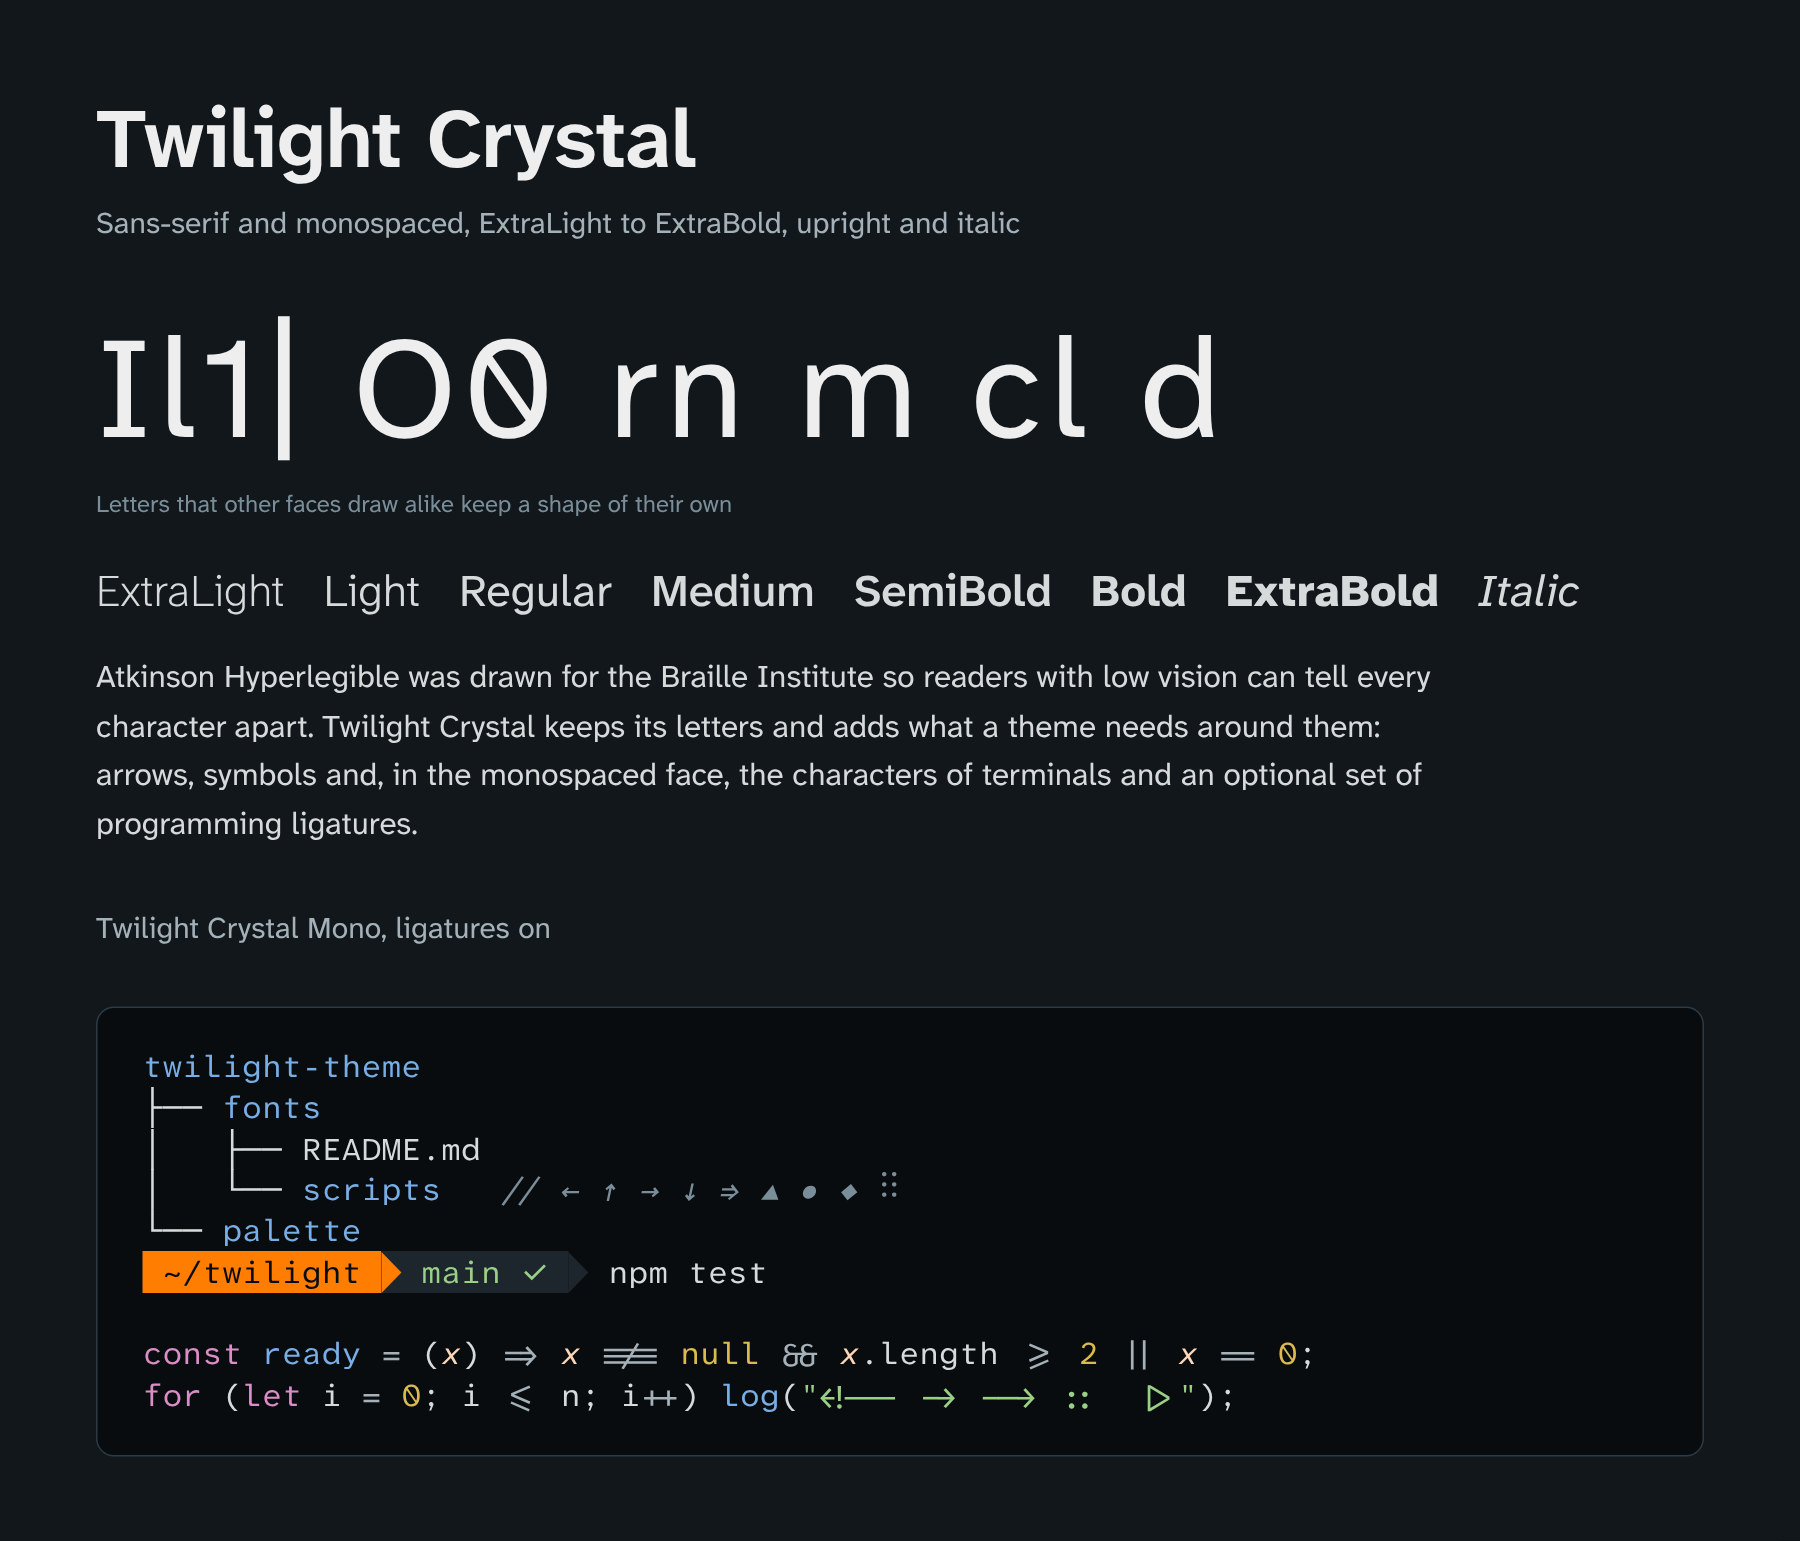
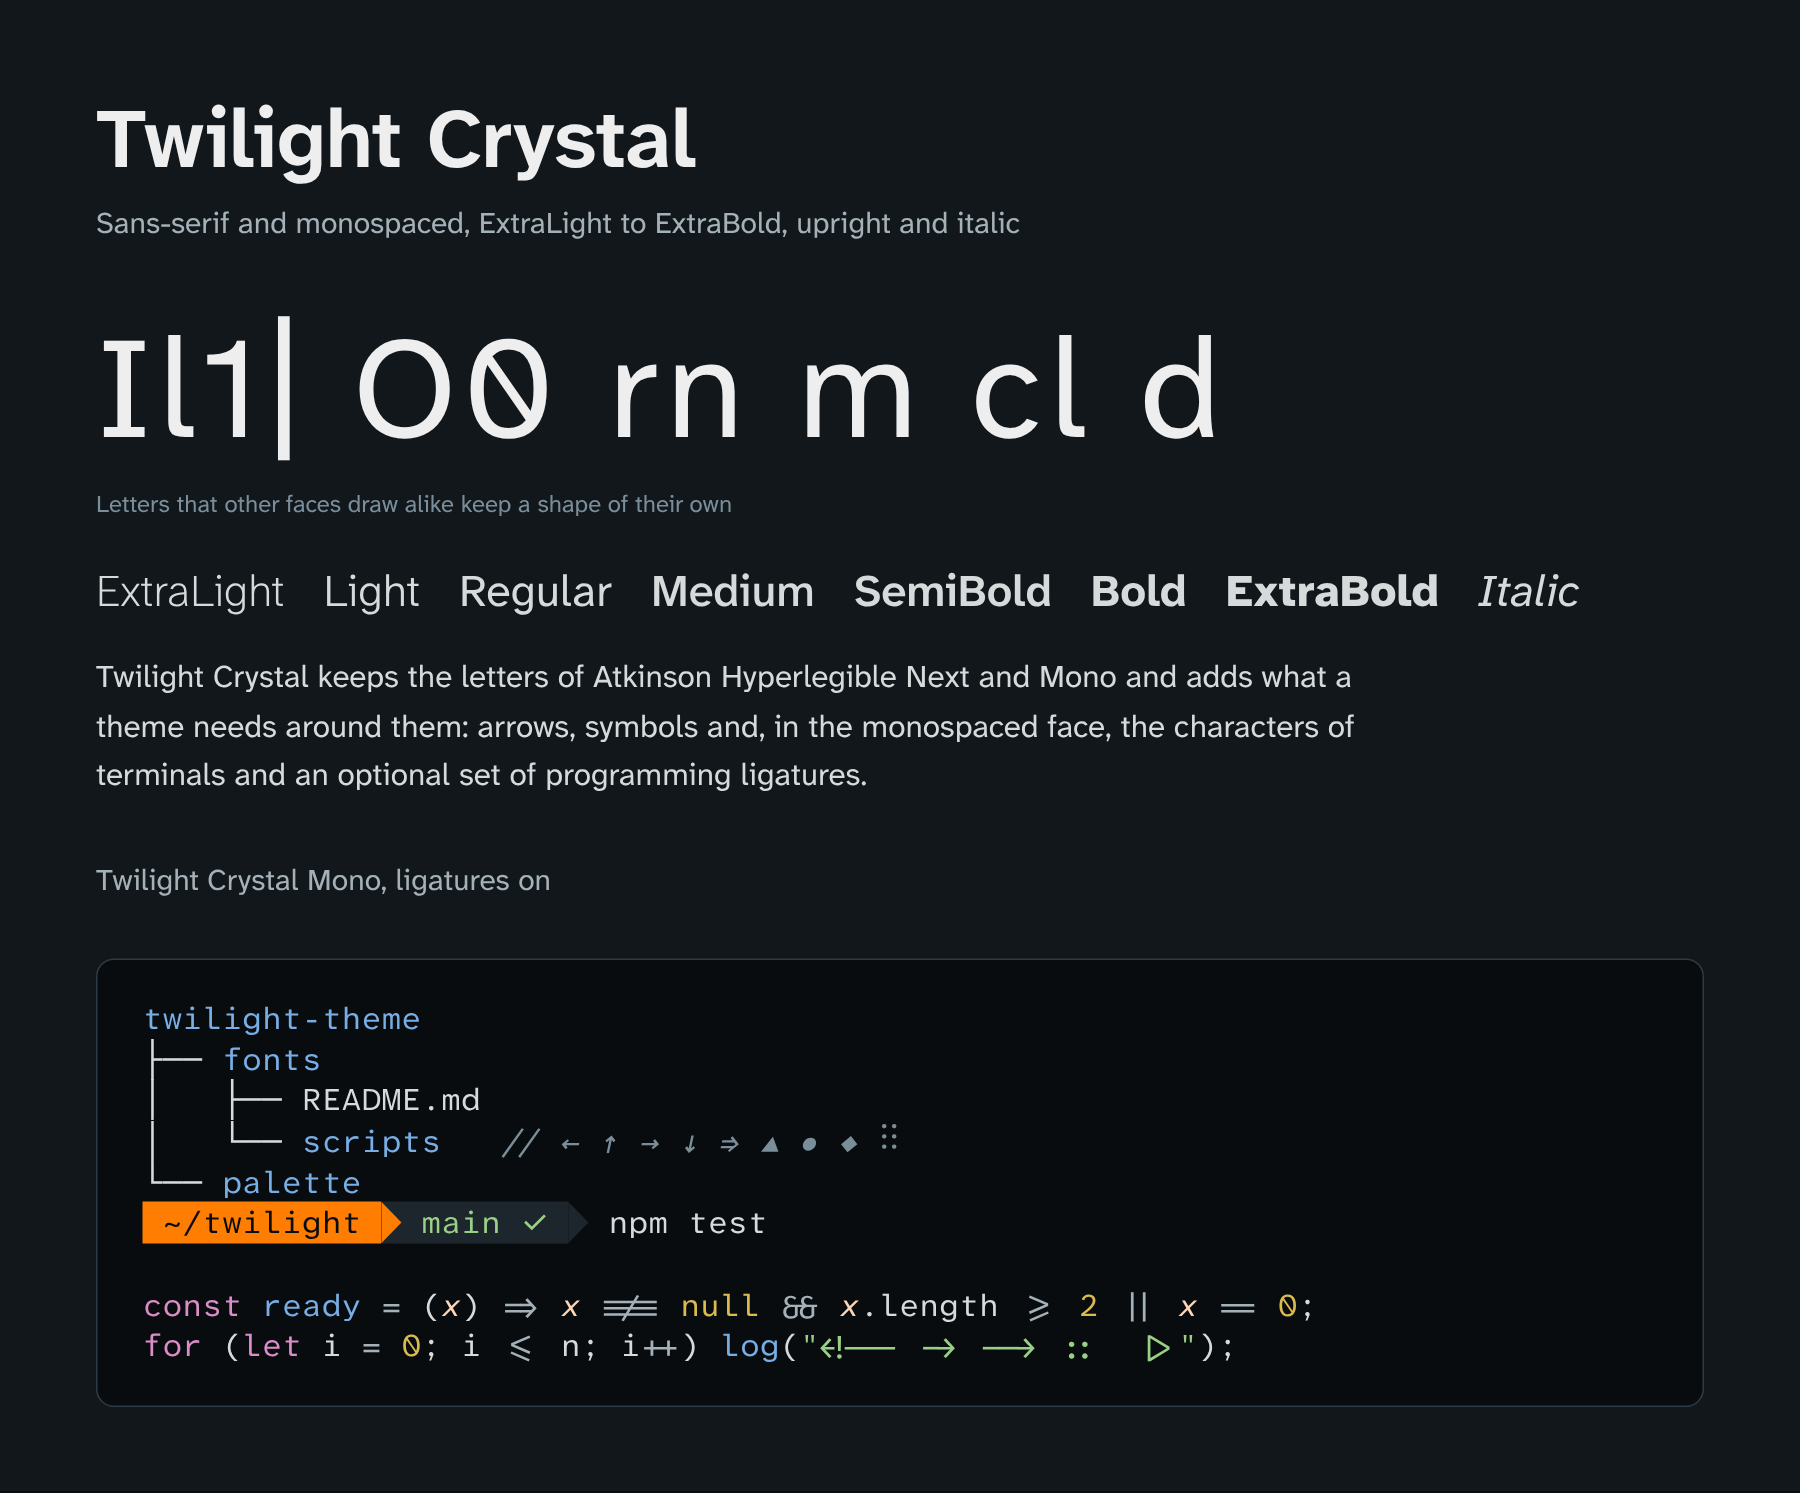
Name Atkinson Hyperlegible's authors only to credit them
OFL condition 4 bars the names of the authors and copyright holders from
promoting a Modified Version, except to acknowledge their contribution.
The page of Twilight Crystal, its specimen and the typography guide used
the Braille Institute and the original's purpose for readers with low
vision as selling points. They now describe Twilight Crystal's letters as
they are, and say whose work those letters are: Elliott Scott, Megan
Eiswerth, Linus Boman, Theodore Petrosky and Letters from Sweden, as
Atkinson Hyperlegible's AUTHORS.txt lists them. Credits in the license
table, the README's license section and FONTLOG are unchanged.

Claude-Session: https://claude.ai/code/session_01WSzJJ2zg4opgNoSeagqYLS

diff --git a/fonts/README.md b/fonts/README.md
@@ -11,11 +11,11 @@
   <a href="FONTLOG.txt">Changes and credits</a>
 </p>
 
-Twilight Crystal and Twilight Crystal Mono are the typefaces of [Twilight Theme](../README.md): a sans-serif for interfaces, documents, images and the web, and a monospaced face for code editors and terminals. They are derivatives of [Atkinson Hyperlegible Next](https://fonts.google.com/specimen/Atkinson+Hyperlegible+Next) and [Atkinson Hyperlegible Mono](https://fonts.google.com/specimen/Atkinson+Hyperlegible+Mono), designed by Applied Design Works and Letters from Sweden for the Braille Institute, and they keep those letters unchanged.
+Twilight Crystal and Twilight Crystal Mono are the typefaces of [Twilight Theme](../README.md): a sans-serif for interfaces, documents, images and the web, and a monospaced face for code editors and terminals. They are derivatives of [Atkinson Hyperlegible Next](https://fonts.google.com/specimen/Atkinson+Hyperlegible+Next) and [Atkinson Hyperlegible Mono](https://fonts.google.com/specimen/Atkinson+Hyperlegible+Mono) and keep their letters unchanged; the [credits](#license) name their authors.
 
 ## Legibility
 
-Atkinson Hyperlegible was drawn so that readers with low vision can tell characters apart. Pairs that other faces draw alike get shapes of their own: I has serifs and l a tail, 1 has a flag, 0 has a slash, and rn stays apart from m. Legibility is why Twilight Theme chose it.
+In Twilight Crystal, characters that other faces draw alike have shapes of their own: I has serifs and l a tail, 1 has a flag, 0 has a slash, and rn stays apart from m. These letters are the work of Atkinson Hyperlegible's designers, Elliott Scott, Megan Eiswerth, Linus Boman, Theodore Petrosky and Letters from Sweden, and their legibility is why Twilight Theme chose that design.
 
 Twilight Crystal keeps that design: every letter, number and punctuation mark keeps the outline, spacing and kerning of the original, and every build checks this against the originals: same glyphs within 0.5 font units, same shaping. The static fonts are hinted as the originals are, and a check confirms on every build that alignment and sharpness from 9 to 20 pixels, and the distinction of those pairs from 9 to 14 pixels, are no worse than the originals'.
 

diff --git a/docs/typography.md b/docs/typography.md
@@ -25,7 +25,7 @@ Twilight Theme recommends its own typefaces, Twilight Crystal and Twilight Cryst
 | Adds | 60 characters | 481 characters, cell hinting, optional ligatures |
 | License | SIL Open Font License 1.1 | The same |
 
-Atkinson Hyperlegible was designed for the Braille Institute so that readers with low vision can tell characters apart: I, l and 1, or O and 0, each have a shape of their own. Twilight Crystal keeps that design and adds what a theme needs around it.
+Twilight Crystal keeps the letters of Atkinson Hyperlegible, in which I, l and 1, or O and 0, each have a shape of their own, and adds what a theme needs around them. [FONTLOG.txt](../fonts/FONTLOG.txt) credits their authors.
 
 ## 2. Which font to use
 
